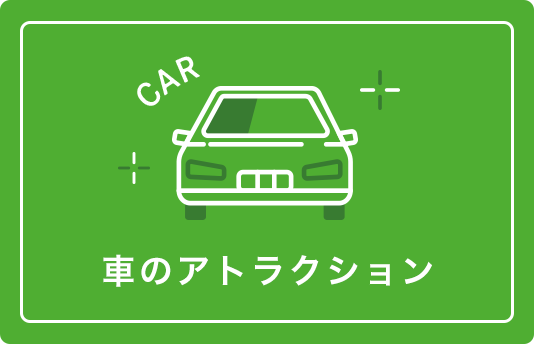
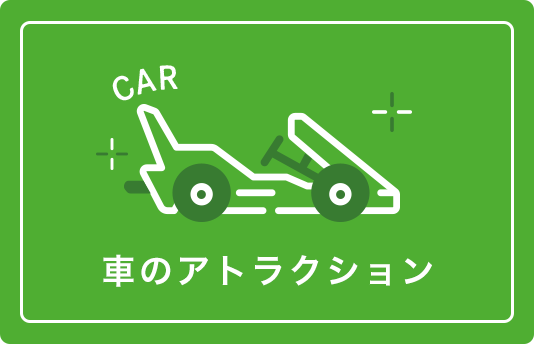
car bike

Changed region(s): [[0.1798, 0.1453, 0.7491, 0.6686], [0.6891, 0.2035, 0.779, 0.3779]]

diff --git a/resources/assets/css/components/_custom-swiper.scss b/resources/assets/css/components/_custom-swiper.scss
@@ -5,6 +5,10 @@
   &.swiper-container-initialized {
     opacity: 1;
   }
+
+  &.slider-carbike-container {
+    opacity: 1;
+  }
 }
 
 .slider-container-mobipark {
